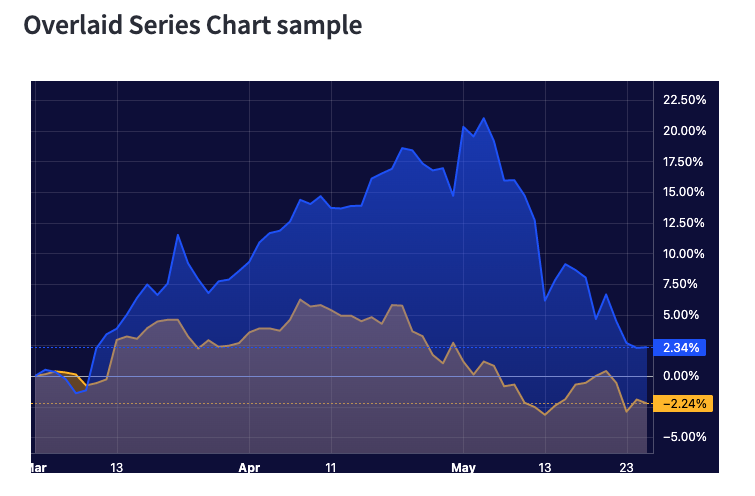
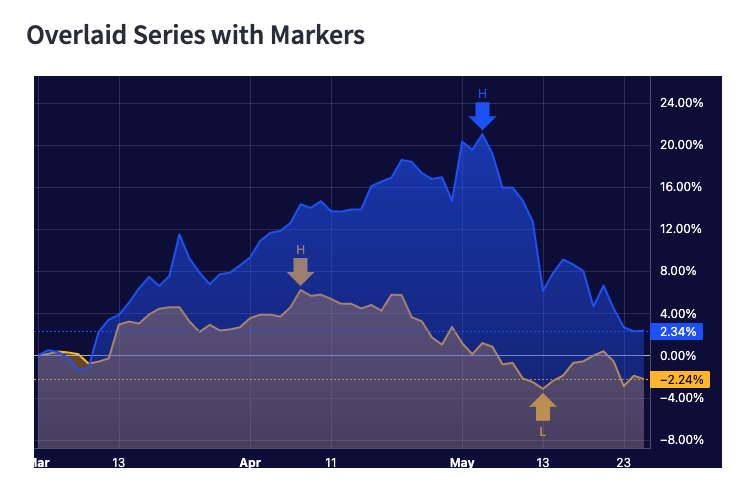
Add markers on series

diff --git a/streamlit_lightweight_charts/frontend/src/LightweightCharts.tsx b/streamlit_lightweight_charts/frontend/src/LightweightCharts.tsx
@@ -27,8 +27,6 @@ const LightweightChartsMultiplePanes: React.VFC = () => {
             ...chartsData[i].chart,
           }
         );
-        
-        chart.timeScale().fitContent();
 
         for (const series of chartsData[i].series){
           
@@ -60,8 +58,13 @@ const LightweightChartsMultiplePanes: React.VFC = () => {
             chart.priceScale(series.options.priceScaleId || '').applyOptions(series.priceScale)
 
           chartSeries.setData(series.data)
+
+          if(series.markers)
+            chartSeries.setMarkers(series.markers)
         }
-        
+
+        chart.timeScale().fitContent();
+
       })
   
       const charts = chartRefs.current.map((c) => c as IChartApi);

diff --git a/streamlit_lightweight_charts/__init__.py b/streamlit_lightweight_charts/__init__.py
@@ -1,6 +1,5 @@
 import os
 from typing import Dict
-from typing import List
 from enum import Enum
 import streamlit.components.v1 as components
 
@@ -238,7 +237,25 @@ if not _RELEASE:
                 "bottomColor": 'rgba(255, 192, 0, 0.3)',
                 "lineColor": 'rgba(255, 192, 0, 1)',
                 "lineWidth": 2,
-            }
+            },
+            "markers": [
+                {
+                    "time": '2019-04-08',
+                    "position": 'aboveBar',
+                    "color": 'rgba(255, 192, 0, 1)',
+                    "shape": 'arrowDown',
+                    "text": 'H',
+                    "size": 3
+                },
+                {
+                    "time": '2019-05-13',
+                    "position": 'belowBar',
+                    "color": 'rgba(255, 192, 0, 1)',
+                    "shape": 'arrowUp',
+                    "text": 'L',
+                    "size": 3
+                },
+            ]
         },
         {
             "type": 'Area',
@@ -248,10 +265,21 @@ if not _RELEASE:
                 "bottomColor": 'rgba(67, 83, 254, 0.3)',
                 "lineColor": 'rgba(67, 83, 254, 1)',
                 "lineWidth": 2,
-            }
+            },
+            "markers": [
+
+                {
+                    "time": '2019-05-03',
+                    "position": 'aboveBar',
+                    "color": 'rgba(67, 83, 254, 1)',
+                    "shape": 'arrowDown',
+                    "text": 'H',
+                    "size": 3
+                },
+            ]
         }
     ]
-    st.subheader("Overlaid Series Chart sample")
+    st.subheader("Overlaid Series with Markers")
     renderLightweightCharts([
         {
             "chart": overlaidAreaSeriesOptions,

diff --git a/setup.py b/setup.py
@@ -5,7 +5,7 @@ with open("README.md", "r") as fh:
 
 setuptools.setup(
     name="streamlit-lightweight-charts",
-    version="0.7.11",
+    version="0.7.12",
     author="Joe Rosa",
     author_email="joe.rosa@itpmngt.co.uk",
     license="MIT",

diff --git a/README.md b/README.md
@@ -7,6 +7,9 @@ The Lightweight Charts library is the best choice to display financial data as a
 - [Documentation](https://tradingview.github.io/lightweight-charts/)
 - [GitHub](https://github.com/tradingview/lightweight-charts)
 
+### Versioons
+Version 0.7.12 - Added "markers" to series
+
 ## How to use:
 ```
 renderLightweightCharts(charts: <List of Dicts> , key: <str>)
@@ -165,7 +168,25 @@ seriesOverlaidChart = [
             "bottomColor": 'rgba(255, 192, 0, 0.3)',
             "lineColor": 'rgba(255, 192, 0, 1)',
             "lineWidth": 2,
-        }
+        },
+        "markers": [
+            {
+                "time": '2019-04-08',
+                "position": 'aboveBar',
+                "color": 'rgba(255, 192, 0, 1)',
+                "shape": 'arrowDown',
+                "text": 'H',
+                "size": 3
+            },
+            {
+                "time": '2019-05-13',
+                "position": 'belowBar',
+                "color": 'rgba(255, 192, 0, 1)',
+                "shape": 'arrowUp',
+                "text": 'L',
+                "size": 3
+            },
+        ]
     },
     {
         "type": 'Area',
@@ -175,7 +196,18 @@ seriesOverlaidChart = [
             "bottomColor": 'rgba(67, 83, 254, 0.3)',
             "lineColor": 'rgba(67, 83, 254, 1)',
             "lineWidth": 2,
-        }
+        },
+        "markers": [
+
+            {
+                "time": '2019-05-03',
+                "position": 'aboveBar',
+                "color": 'rgba(67, 83, 254, 1)',
+                "shape": 'arrowDown',
+                "text": 'H',
+                "size": 3
+            },
+        ]
     }
 ]
 st.subheader("Overlaid Series Chart sample")
